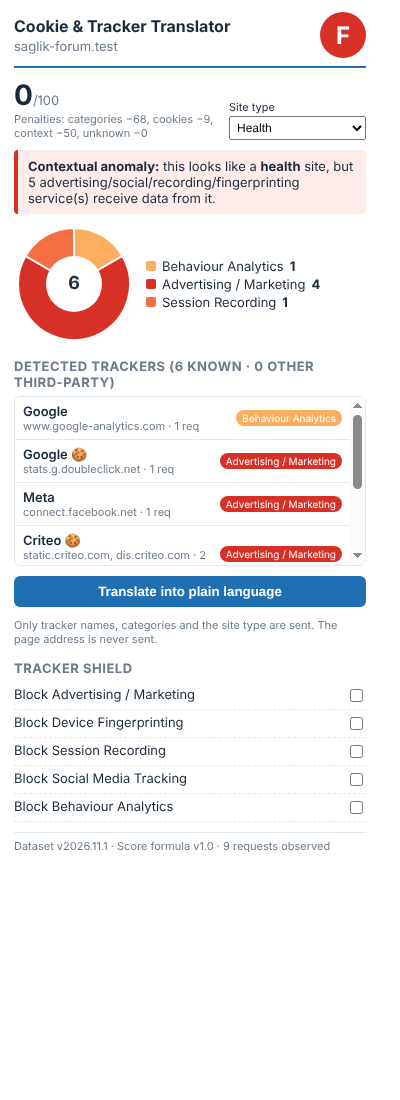
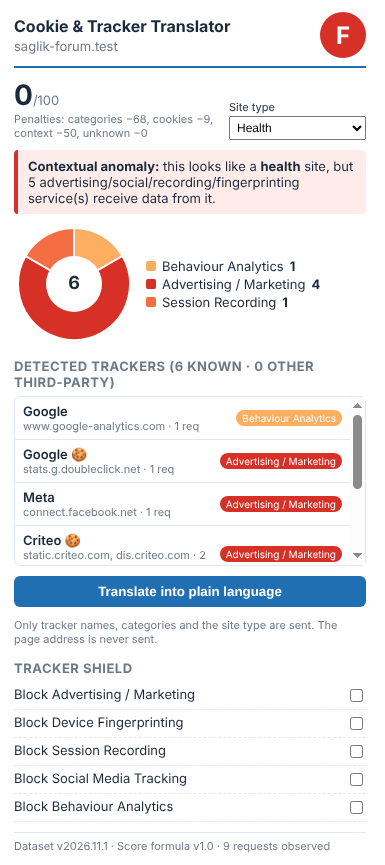
Add README with layout, run instructions and privacy design

diff --git a/README.md b/README.md
@@ -1,0 +1,40 @@
+# Cookie and Tracker Translator (Privacy Translator)
+
+SE 401 Graduation Project — Efe Koca (220706037), Maltepe University, 2026–2027 Fall.
+Advisor: Prof. Dr. Asaf Varol.
+
+A Chrome (Manifest V3) extension that observes the third-party requests a website makes, identifies known
+trackers and the cookies they set, grades the site's privacy from A to F with a documented formula, flags
+contextual anomalies (e.g. advertising trackers on a health site), shows a category pie chart, explains
+everything in plain language, and lets the user block whole tracker categories with one click.
+
+## Layout
+```
+extension/            Chrome MV3 extension (load unpacked from this folder)
+  manifest.json       MV3 manifest (service worker, webRequest, declarativeNetRequest, storage)
+  background.js       service worker: request observation, matching, Set-Cookie, score, shield, messaging
+  popup.html/.css/.js popup UI (grade, pie chart, tracker list, explanation, shield)
+  lib/                domain.js, trackerDb.js, score.js, context.js, explain.js (pure, unit-tested)
+  data/trackers.json  curated tracker dataset (62 domains, 6 categories)
+backend/              zero-dependency Node.js explanation API (POST /api/v1/explain, GET /health)
+tests/unit/           node:test unit tests (24)
+tests/e2e/            Playwright + Chrome end-to-end harness with offline fixture websites (13 checks)
+evidence/             test outputs, logs and screenshots referenced in the progress reports
+```
+
+## Run
+```bash
+# 1) backend (Node >= 20, no npm install needed)
+npm run backend                 # http://127.0.0.1:8787  (optional: LLM_API_KEY, LLM_MODEL, LLM_BASE_URL)
+# 2) extension: chrome://extensions -> Developer mode -> Load unpacked -> select ./extension
+# 3) tests
+npm test                        # unit tests
+npm run test:e2e                # needs: npm i -D playwright, Chrome for Testing, ports 80/443
+```
+
+## Privacy design
+* Detection, matching and scoring run locally in the browser.
+* Only when the user presses **Translate**, the extension sends: site type label, score, and for each
+  tracker its registrable domain, company, category and a cookie flag. Page URL, hostname, path,
+  query string and cookie values are never sent. The backend rejects any other field (HTTP 422).
+* The backend binds to 127.0.0.1, keeps an in-memory cache only, and logs aggregate counts only.
